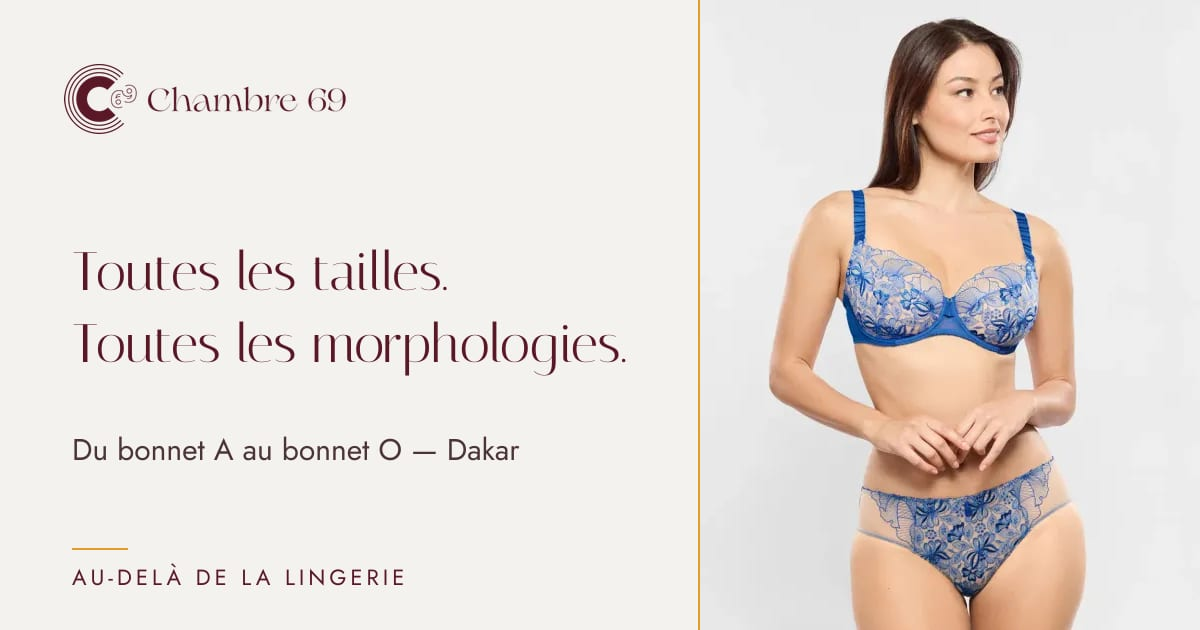
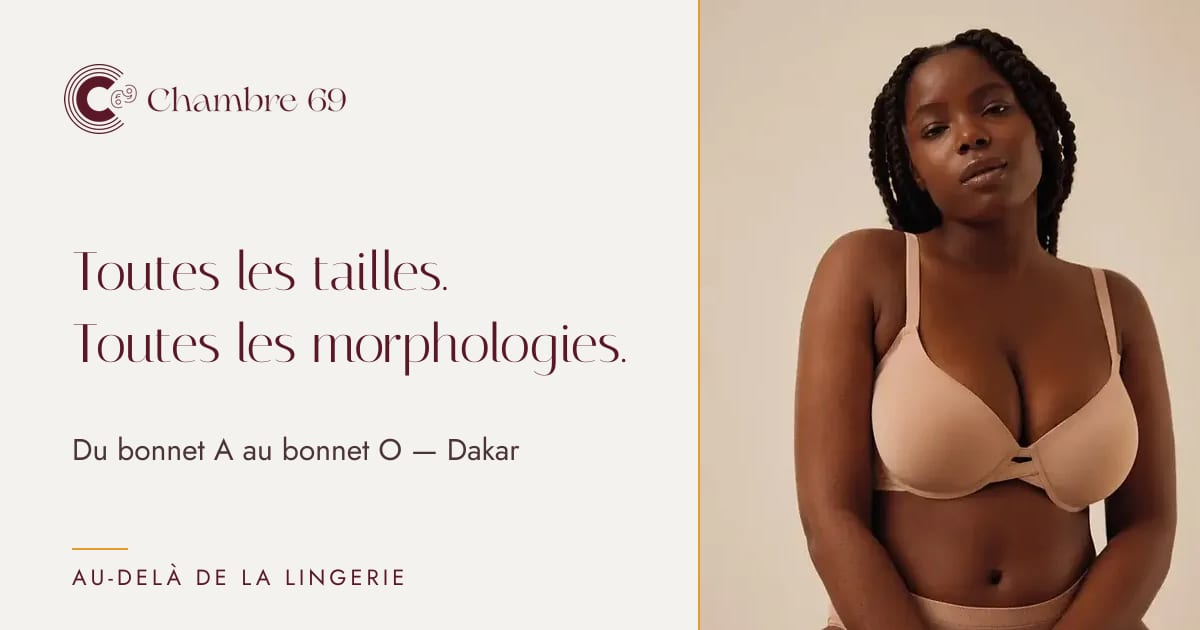
Mise en avant : la photo de la femme noire (Ysabel Mora « Naked »)
À la demande de la cliente, la photo à peau blanche n'est plus mise en avant :
- accueil : grande photo du haut de page = soutien-gorge Naked (Ysabel Mora) ;
- tuile « Culottes » de l'accueil : mannequin Curvy Kate à la peau foncée ;
- image de partage de l'accueil (WhatsApp, Facebook) régénérée ;
- page « Nos maisons » : couvertures Ysabel Mora, Freya et Curvy Kate
  choisies parmi des photos de mannequins à la peau foncée.
Les photos des fiches produits ne changent pas.

Claude-Session: https://claude.ai/code/session_01136XjiSbUibo2zkkN5yygn

diff --git a/project_room69/src/pages/BrandsPage.tsx b/project_room69/src/pages/BrandsPage.tsx
@@ -19,12 +19,19 @@ const BRAND_TEXT: Record<string, string | null> = {
   LingaDore: 'Maison européenne de lingerie et de nuit, aux dentelles et aux coloris soignés, pour se faire plaisir à prix doux.',
 };
 
+/** Photo de couverture choisie à la main pour certaines maisons (mannequins à la peau foncée, comme le veut la charte). */
+const COVER: Record<string, string> = {
+  'Ysabel Mora': 'soutien-gorge-naked-ysabel-mora',
+  Freya: 'soutien-gorge-sydnie-freya',
+  'Curvy Kate': 'culotte-enclose-taille-haute-curvy-kate-2',
+};
+
 export function BrandsPage() {
   const brands = BRANDS_DISTRIBUTED.map((b) => {
     const items = PRODUCTS.filter((p) => p.brand === b);
     const bras = items.filter((p) => p.sizes.cups?.length);
     const cups = [...new Set(bras.flatMap((p) => p.sizes.cups || []))].sort();
-    return { name: b, origin: items[0].origin, count: items.length, cover: items.find((p) => p.category === 'soutiens-gorge') || items[0], range: cups.length ? `Bonnets ${cups[0]} à ${cups[cups.length - 1]}` : sizeSummary(items[0]) };
+    return { name: b, origin: items[0].origin, count: items.length, cover: items.find((p) => p.slug === COVER[b]) || items.find((p) => p.category === 'soutiens-gorge') || items[0], range: cups.length ? `Bonnets ${cups[0]} à ${cups[cups.length - 1]}` : sizeSummary(items[0]) };
   });
   brands.sort((a, b) => { const o = ['Empreinte', 'Elomi', 'Louisa Bracq']; const ia = o.indexOf(a.name), ib = o.indexOf(b.name); return (ia < 0 ? 9 : ia) - (ib < 0 ? 9 : ib); });
 

diff --git a/project_room69/src/pages/HomePage.tsx b/project_room69/src/pages/HomePage.tsx
@@ -12,13 +12,13 @@ import { track } from '../lib/analytics';
 
 const pick = (slugs: string[]) => slugs.map((s) => BY_SLUG.get(s)).filter(Boolean) as Product[];
 
-const HERO = pick(['soutien-gorge-agathe-empreinte', 'nuisette-traditionnelle-modele-03', 'soutien-gorge-morgan-elomi']);
+const HERO = pick(['soutien-gorge-naked-ysabel-mora', 'nuisette-traditionnelle-modele-03', 'soutien-gorge-morgan-elomi']);
 const HERITAGE = pick(['nuisette-traditionnelle-modele-01', 'chaines-de-taille-modele-01', 'senteur-et-encens-modele-05', 'nuisette-traditionnelle-modele-02']);
 const BRIDE = pick(['ensemble-kimono-blanc-de-lait', 'ensemble-kimono-et-robe-de-soie', 'porte-jarretelles-zsa-dita-von-teese']);
 
 const ENTRY_TILES = [
   { label: 'Soutiens-gorge', to: '/boutique?categorie=soutiens-gorge', slug: 'soutien-gorge-zarla-elomi' },
-  { label: 'Culottes', to: '/boutique?categorie=culottes', slug: 'culotte-leia-empreinte' },
+  { label: 'Culottes', to: '/boutique?categorie=culottes', slug: 'culotte-enclose-taille-haute-curvy-kate-2' },
   { label: 'Héritage', to: '/heritage', slug: 'nuisette-traditionnelle-modele-04' },
   { label: 'Nuisettes et kimonos', to: '/boutique?categorie=nuit', slug: 'ensemble-kimono-modele-03' },
 ];
